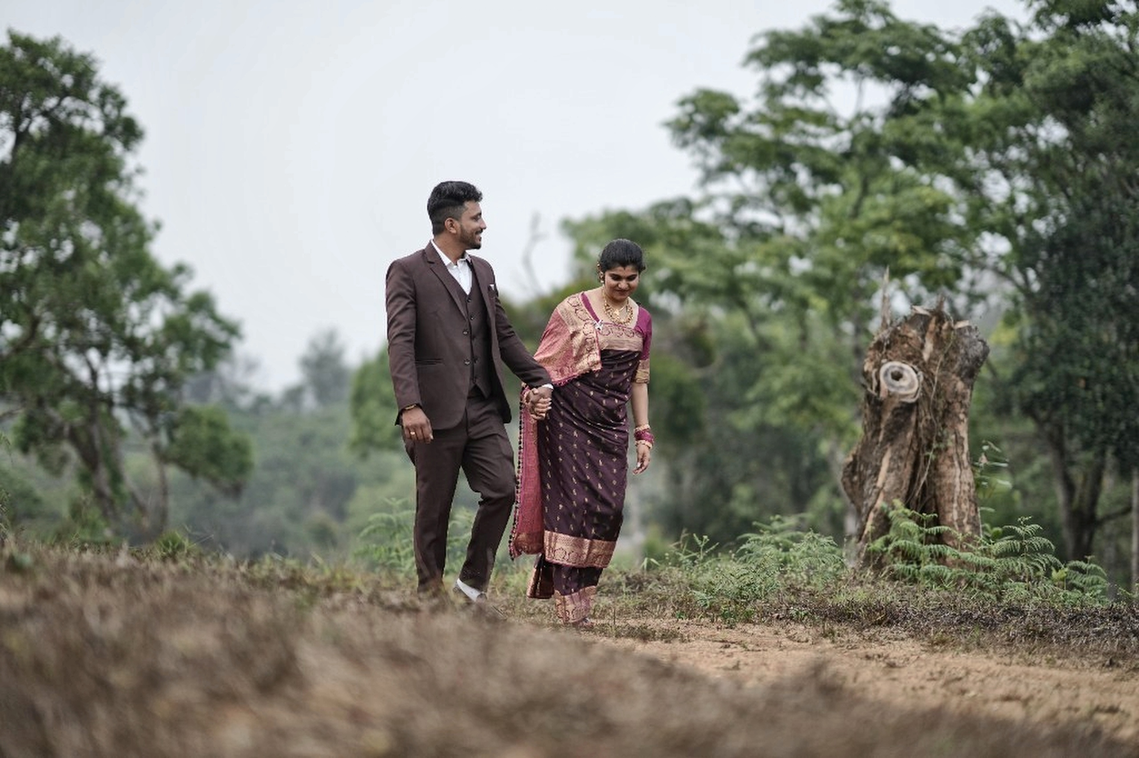
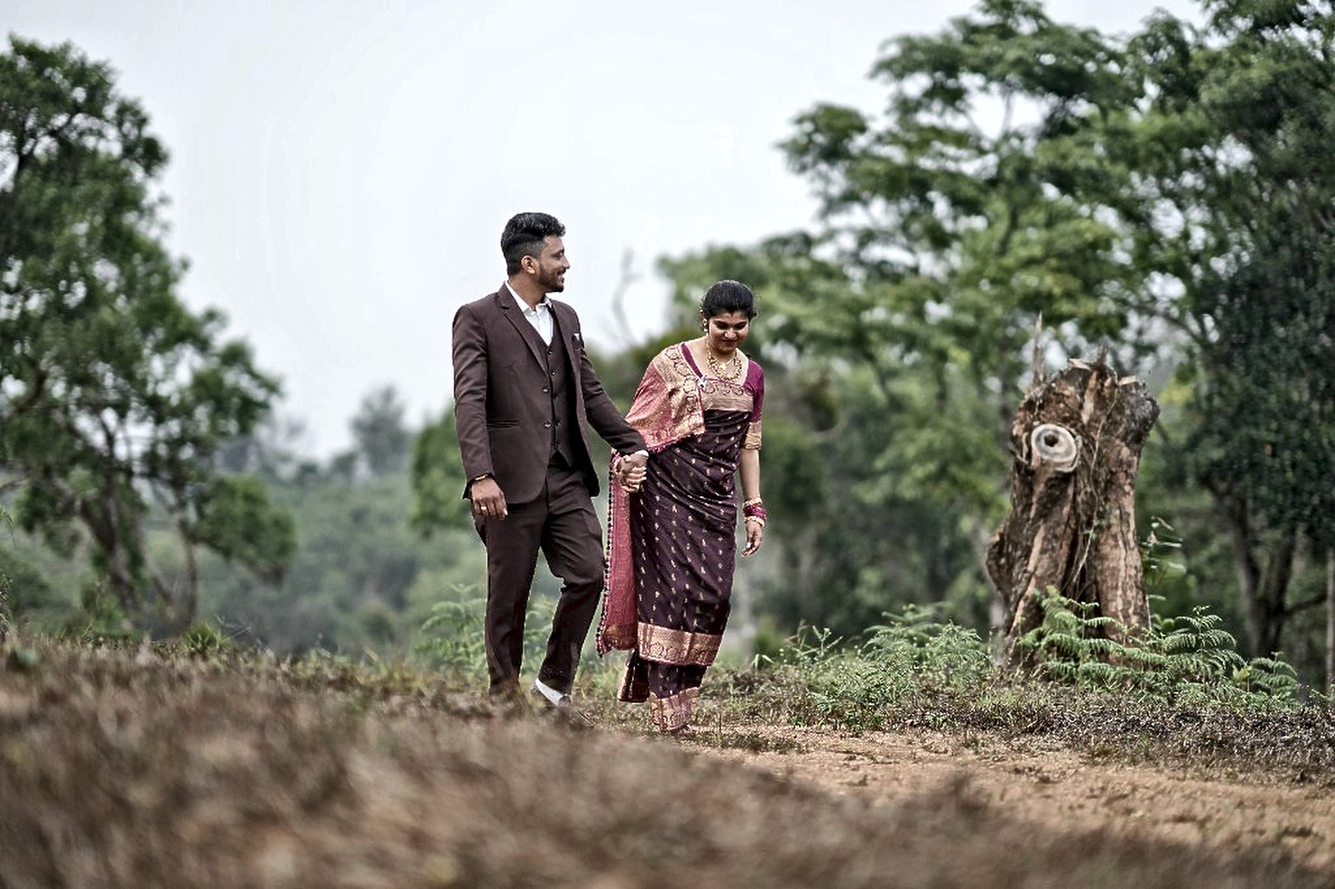
Enhance first page photo clarity and ensure high-contrast font visibility

diff --git a/index.html b/index.html
@@ -39,33 +39,60 @@
     <script type="module" crossorigin src="./assets/index-FTKWP6I9.js"></script>
     <link rel="stylesheet" crossorigin href="./assets/styles-DHpdJjWo.css">
     <style>
-      /* Bold typography enhancements requested for hero letters & headings */
-      h1 {
-        font-weight: 700 !important;
+      /* Hero text visibility & crisp typography */
+      section.min-h-\[100svh\] div.z-20 {
+        background: linear-gradient(to top, rgba(246, 243, 238, 0.96) 0%, rgba(246, 243, 238, 0.85) 55%, rgba(246, 243, 238, 0.45) 80%, transparent 100%);
+        -webkit-backdrop-filter: blur(4px);
+        backdrop-filter: blur(4px);
+      }
+      section.min-h-\[100svh\] h1 {
+        font-weight: 800 !important;
         letter-spacing: 0.14em !important;
-        text-shadow: 0 1px 2px rgba(255, 255, 255, 0.35);
+        color: #12241b !important;
+        text-shadow: 0 1px 3px rgba(255, 255, 255, 0.95), 0 0 16px rgba(246, 243, 238, 0.95);
       }
-      h1 span {
+      section.min-h-\[100svh\] h1 span {
         font-weight: 600 !important;
+        color: #2b3d33 !important;
       }
-      p[class*="tracking-[0.42em]"] {
-        font-weight: 600 !important;
-        color: rgba(30, 48, 40, 0.92) !important;
-      }
-      p[class*="tracking-[0.18em]"] {
+      section.min-h-\[100svh\] p[class*="tracking-[0.42em]"] {
         font-weight: 700 !important;
+        color: #172b20 !important;
+        letter-spacing: 0.38em !important;
+        text-shadow: 0 1px 2px rgba(255, 255, 255, 0.95);
       }
-      p[class*="tracking-[0.28em]"] {
+      section.min-h-\[100svh\] p[class*="font-serif"] {
         font-weight: 600 !important;
-        color: rgba(30, 48, 40, 0.88) !important;
+        color: #22342b !important;
+        text-shadow: 0 1px 2px rgba(255, 255, 255, 0.9);
       }
-      /* Hero photo clarity & gradient refinement */
+      section.min-h-\[100svh\] p[class*="text-gold"] {
+        font-weight: 800 !important;
+        color: #a07214 !important;
+        letter-spacing: 0.28em !important;
+        text-shadow: 0 1px 2px rgba(255, 255, 255, 0.85);
+      }
+      section.min-h-\[100svh\] p[class*="tracking-[0.28em]"] {
+        font-weight: 700 !important;
+        color: #172b20 !important;
+        letter-spacing: 0.28em !important;
+        text-shadow: 0 1px 2px rgba(255, 255, 255, 0.95);
+      }
+      /* Hero photo clarity & gradient background for font legibility */
       .h-72.bg-gradient-to-t {
-        height: 11rem !important;
-        background: linear-gradient(to top, var(--parchment, #f6f3ee) 0%, rgba(246, 243, 238, 0.85) 45%, rgba(246, 243, 238, 0.25) 75%, transparent 100%) !important;
+        height: 25rem !important;
+        background: linear-gradient(
+          to top,
+          var(--parchment, #f6f3ee) 0%,
+          var(--parchment, #f6f3ee) 45%,
+          rgba(246, 243, 238, 0.94) 65%,
+          rgba(246, 243, 238, 0.75) 80%,
+          rgba(246, 243, 238, 0.3) 92%,
+          transparent 100%
+        ) !important;
       }
       .bg-gradient-to-b.from-pine\/25 {
-        background: linear-gradient(to bottom, rgba(30, 48, 40, 0.1) 0%, transparent 40%, rgba(246, 243, 238, 0.3) 100%) !important;
+        background: linear-gradient(to bottom, rgba(30, 48, 40, 0.12) 0%, transparent 35%, rgba(246, 243, 238, 0.4) 100%) !important;
       }
       img[alt*="Illustrated Mughal arch"] {
         image-rendering: -webkit-optimize-contrast;
